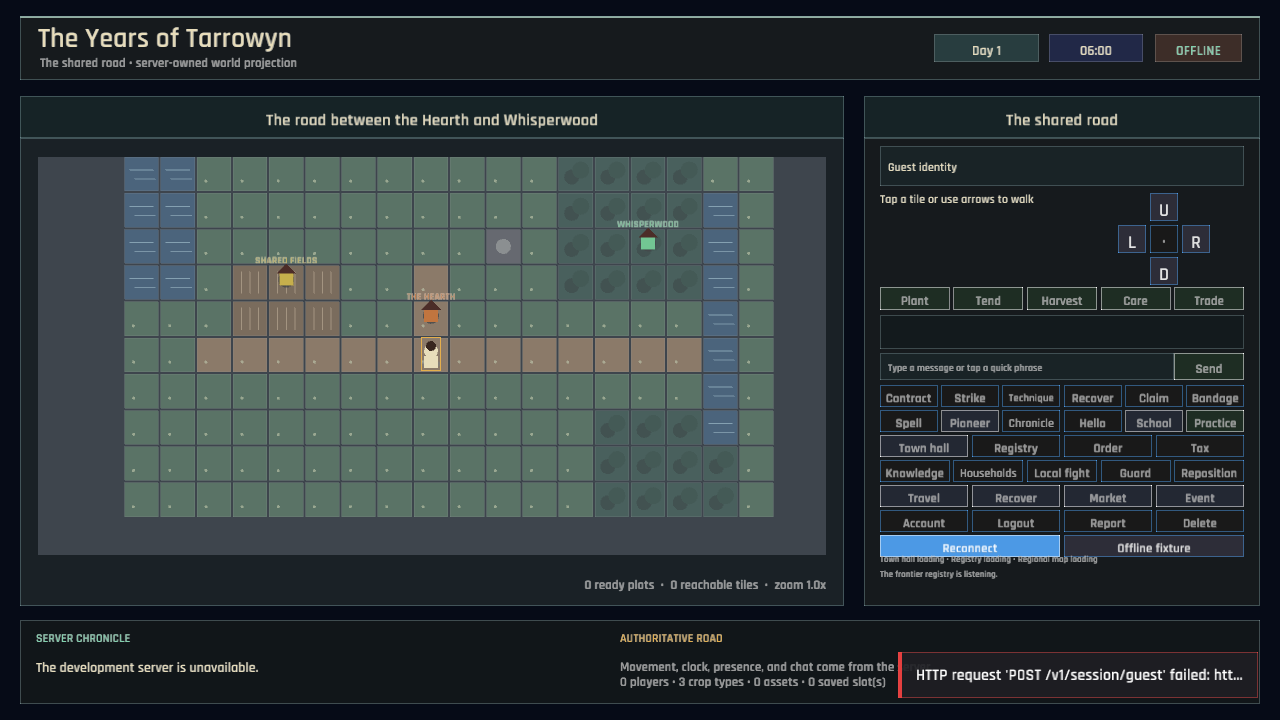
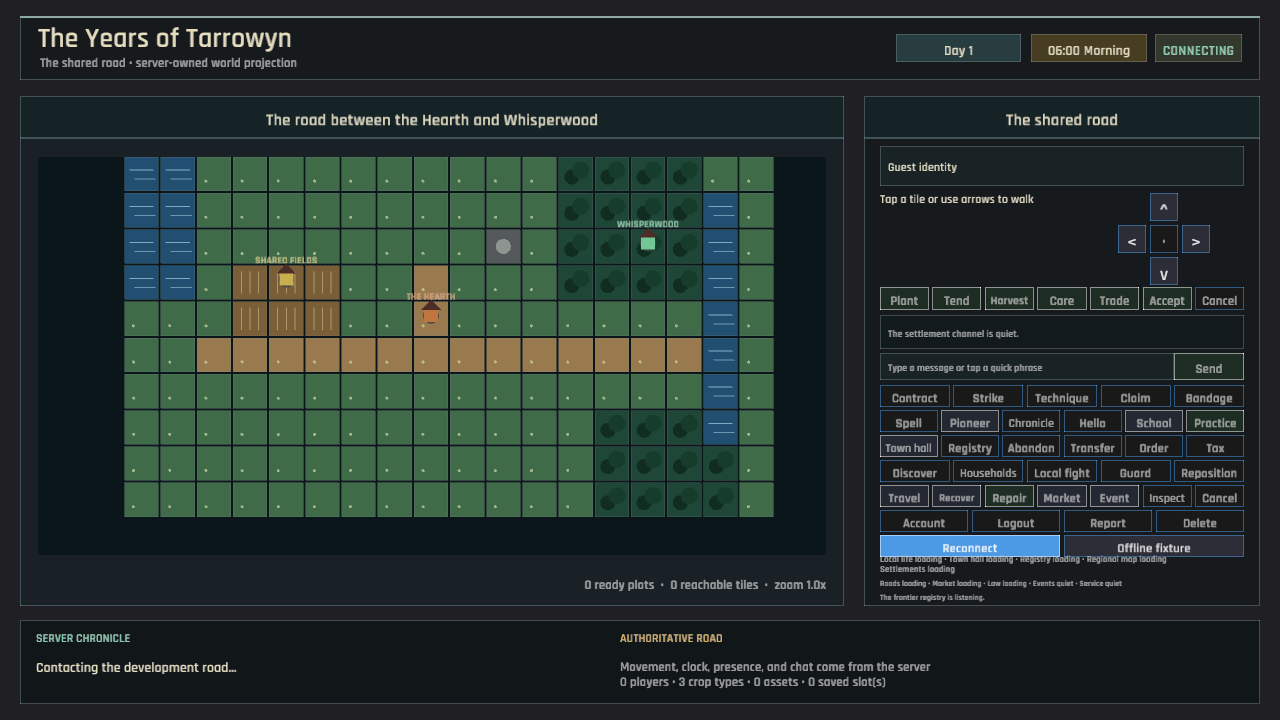
The road signs point with honest marks (touch movement controls)
The on-screen movement pad displayed U/L/R/D, which looked like keyboard instructions despite the touch-first walking prompt. Replace those labels with font-safe directional symbols, verify the rendered gameplay capture, and preserve the same four touch actions.

diff --git a/src/ui.rs b/src/ui.rs
@@ -348,16 +348,16 @@ fn draw_move_pad(x: f32, y: f32, mouse: Vec2, actions: &mut Vec<UiAction>, enabl
             mouse,
         ) {
             match label {
-                "U" => action.push(UiAction::Move(0, -1)),
-                "L" => action.push(UiAction::Move(-1, 0)),
-                "R" => action.push(UiAction::Move(1, 0)),
-                "D" => action.push(UiAction::Move(0, 1)),
+                "^" => action.push(UiAction::Move(0, -1)),
+                "<" => action.push(UiAction::Move(-1, 0)),
+                ">" => action.push(UiAction::Move(1, 0)),
+                "v" => action.push(UiAction::Move(0, 1)),
                 _ => {}
             }
         }
     };
-    button(x + size + gap, y, "U", actions);
-    button(x, y + size + gap, "L", actions);
+    button(x + size + gap, y, "^", actions);
+    button(x, y + size + gap, "<", actions);
     virtual_button(
         Rect::new(x + size + gap, y + size + gap, size, size),
         "•",
@@ -365,8 +365,8 @@ fn draw_move_pad(x: f32, y: f32, mouse: Vec2, actions: &mut Vec<UiAction>, enabl
         ButtonTone::Secondary,
         mouse,
     );
-    button(x + (size + gap) * 2.0, y + size + gap, "R", actions);
-    button(x + size + gap, y + (size + gap) * 2.0, "D", actions);
+    button(x + (size + gap) * 2.0, y + size + gap, ">", actions);
+    button(x + size + gap, y + (size + gap) * 2.0, "v", actions);
 }
 
 fn virtual_button(rect: Rect, label: &str, enabled: bool, tone: ButtonTone, mouse: Vec2) -> bool {

diff --git a/docs/PHASE_6_TEST_REPORT.md b/docs/PHASE_6_TEST_REPORT.md
@@ -1542,3 +1542,11 @@ file-size checks pass, and `publish.ps1` passes its Windows/WebGL builds,
 packaging, Preview deployment, and catalog synchronization. No full workspace
 gate was repeated because this was a bounded client presentation slice, and no
 new external or deferred work was opened.
+
+The touch movement pad now uses font-safe directional symbols (`^`, `<`, `>`,
+`v`) instead of keyboard-looking `U/L/R/D` labels. The captured gameplay
+verification image renders all four controls correctly; the focused online UI
+tests (7), client-package clippy, formatting, diff, and Rust file-size checks
+pass, and `publish.ps1` refreshed the Windows/WebGL packages and Preview
+artifacts. No full workspace gate was repeated because this was a bounded
+touch-presentation slice, and no new external or deferred work was opened.
